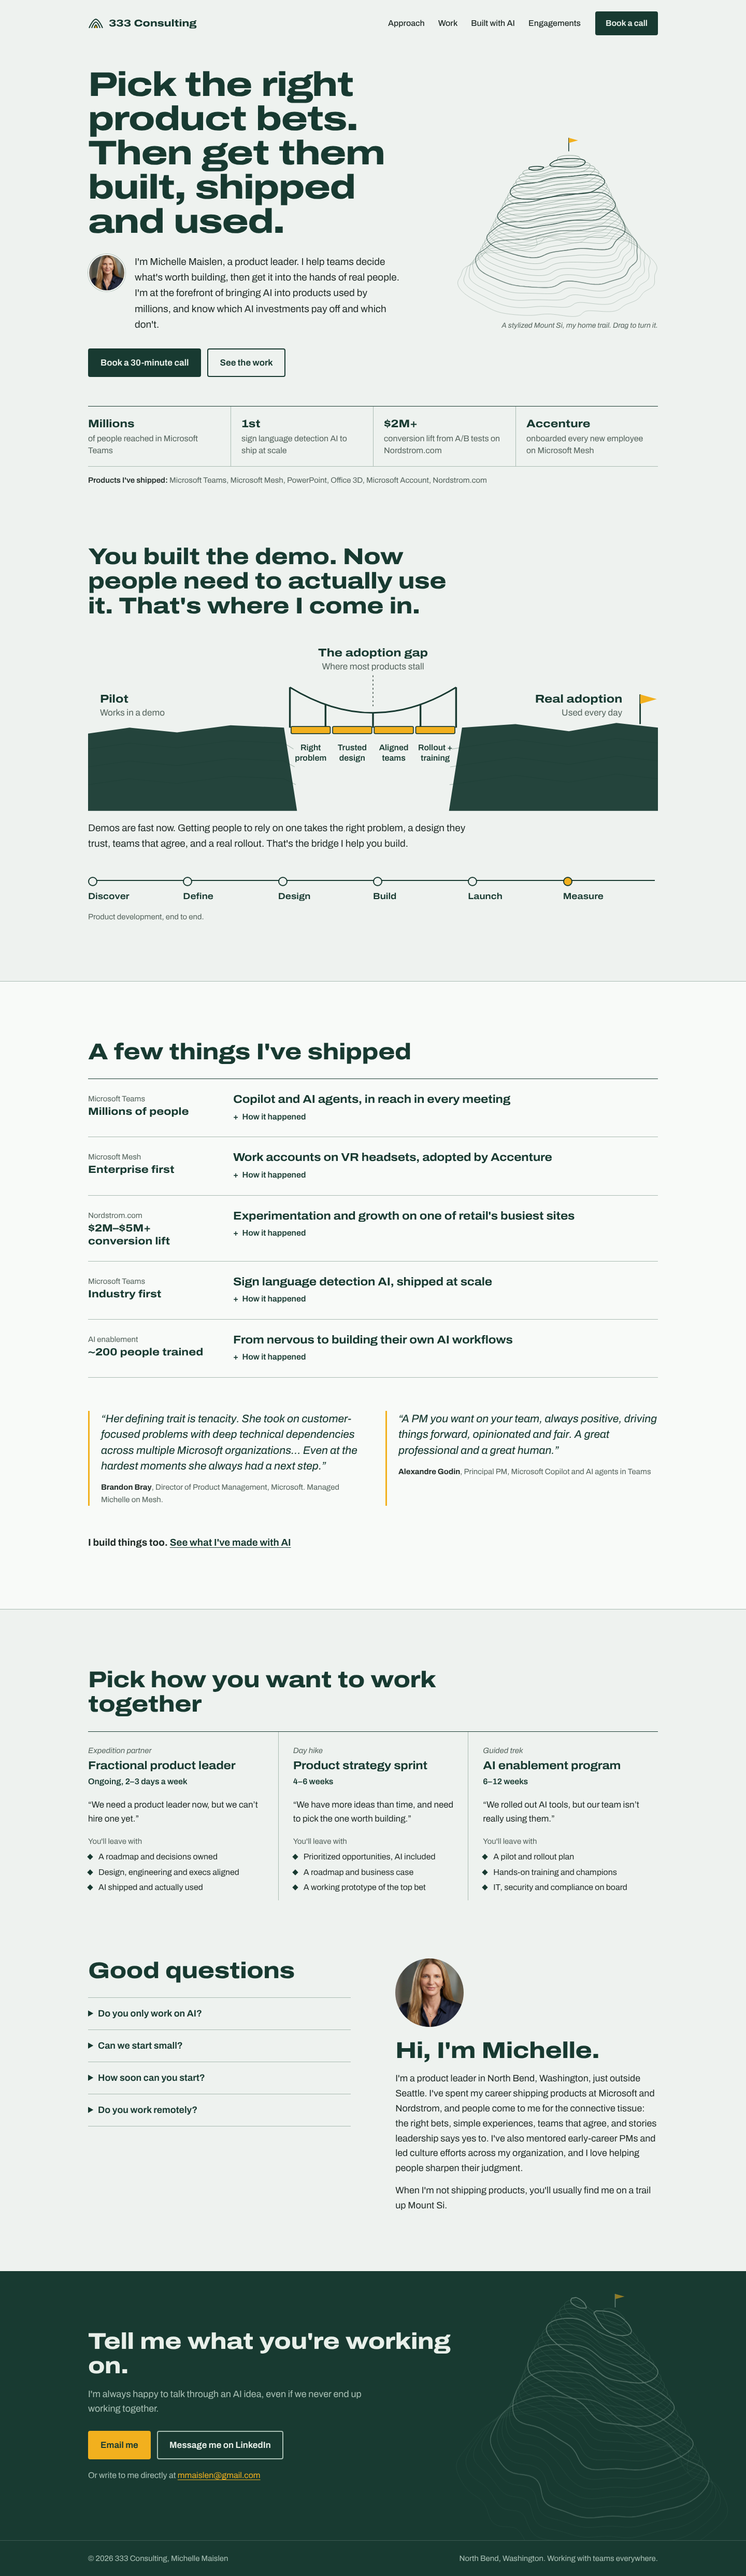
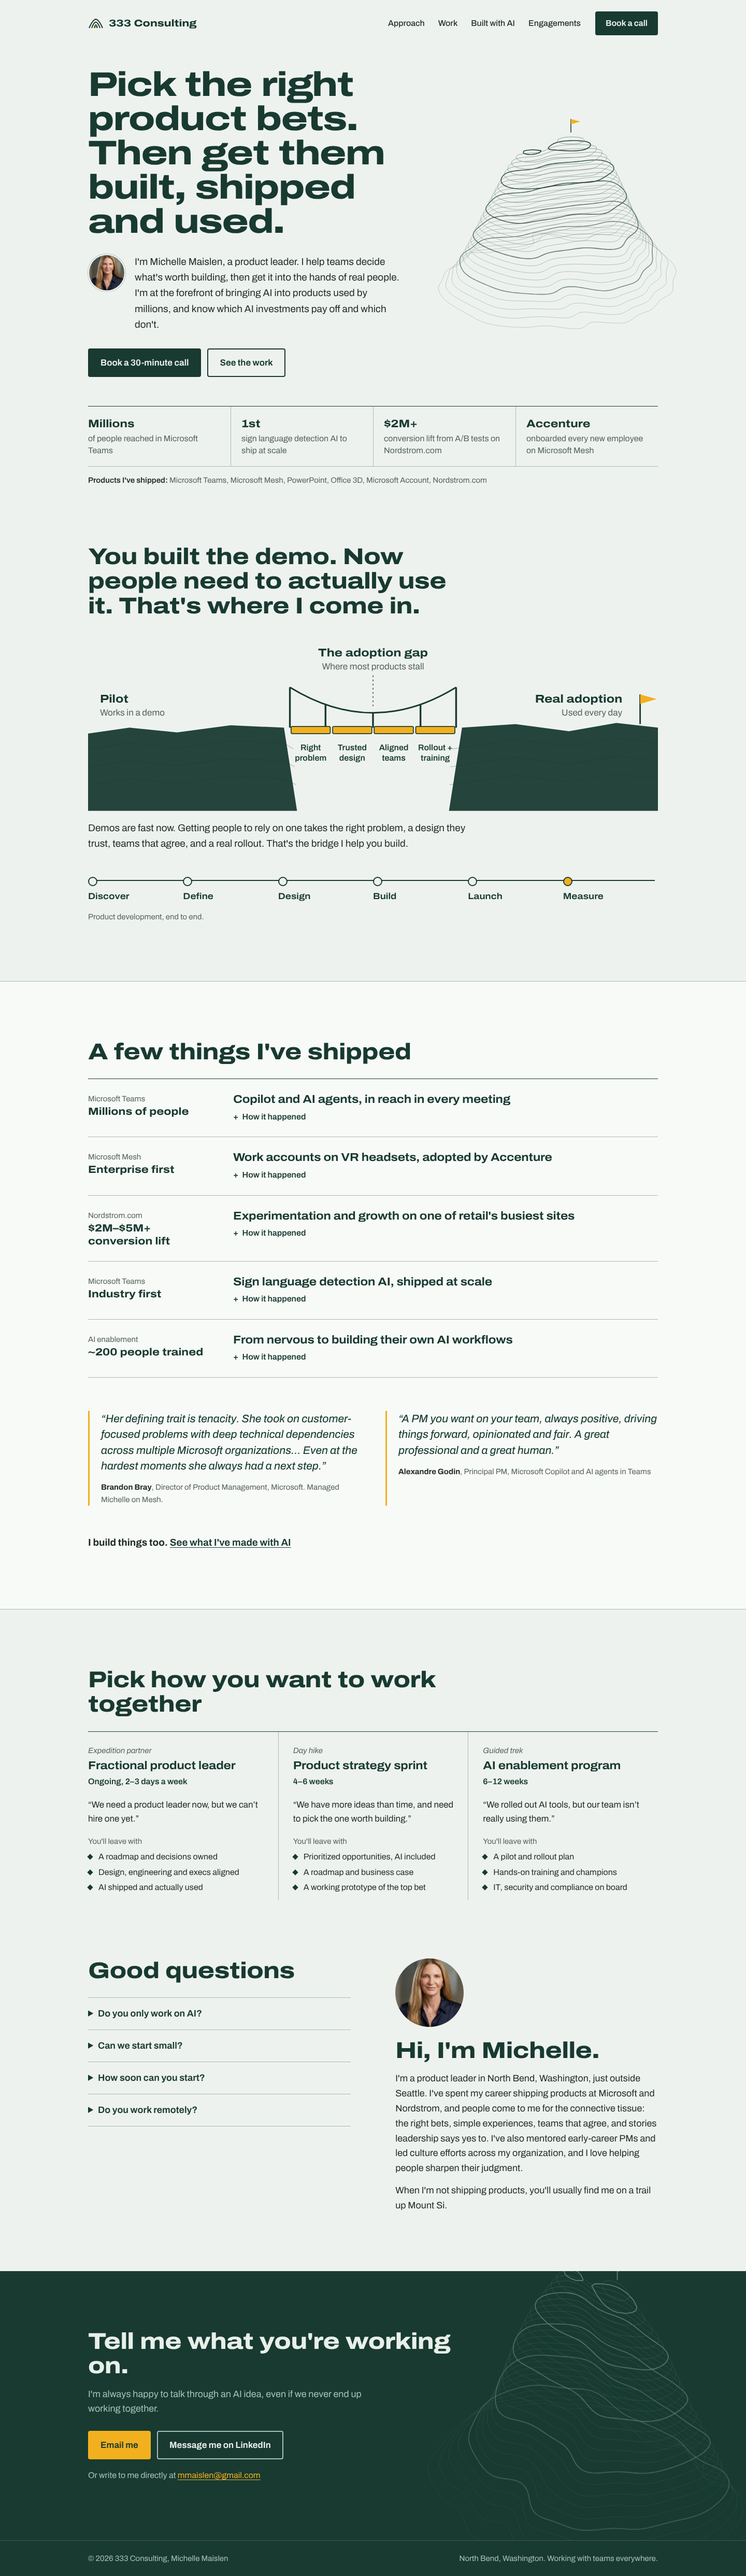
Drop the hero caption and enlarge the mountain
Claude-Session: https://claude.ai/code/session_01MV51zhT8Ci4aux5RyiGwML

Changed region(s): [[0.625, 0.0312, 0.875, 0.1248], [0.7812, 0.9048, 0.8125, 0.936]]

diff --git a/terrain.js b/terrain.js
@@ -44,7 +44,7 @@
     function draw() {
       if (!w) return;
       ctx.clearRect(0, 0, w, h);
-      const s = Math.min(w, h * 1.0) * 0.47, cx = w * 0.5, cy = h * 0.74, tilt = opts.tilt, zs = 1.35 / max;
+      const s = Math.min(w, h * 1.0) * 0.56, cx = w * 0.5, cy = h * (w > h * 1.4 ? 0.82 : 0.76), tilt = opts.tilt, zs = 1.35 / max;
       const ca = Math.cos(angle), sa = Math.sin(angle), ct = Math.cos(tilt), st = Math.sin(tilt);
       const P = (x, y, z) => { const rx = x * ca - y * sa, ry = x * sa + y * ca; return [cx + rx * s, cy + (ry * st - z * zs * ct) * s]; };
       for (let k = 1; k <= LEVELS; k++) {

diff --git a/index.html b/index.html
@@ -49,7 +49,6 @@
       </div>
       <figure class="terrain" style="margin-top:0;margin-bottom:0">
         <canvas id="terrain-hero" role="img" aria-label="A 3D contour model of Mount Si, near Michelle's home in North Bend. Drag to turn it."></canvas>
-        <figcaption>A stylized Mount Si, my home trail. Drag to turn it.</figcaption>
       </figure>
     </div>
     <div class="proof">
